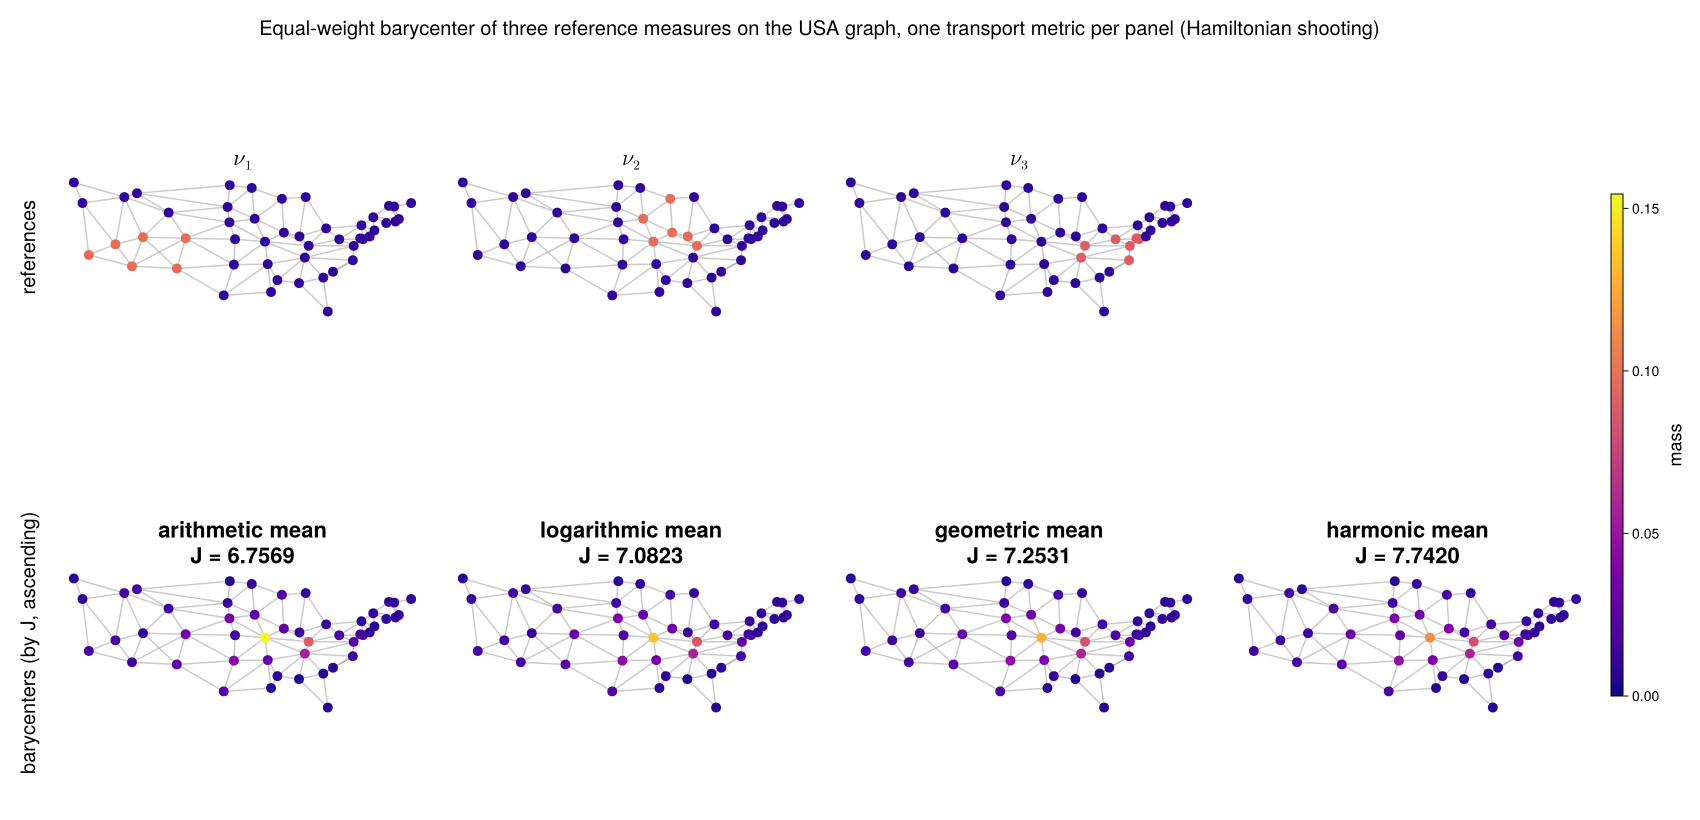
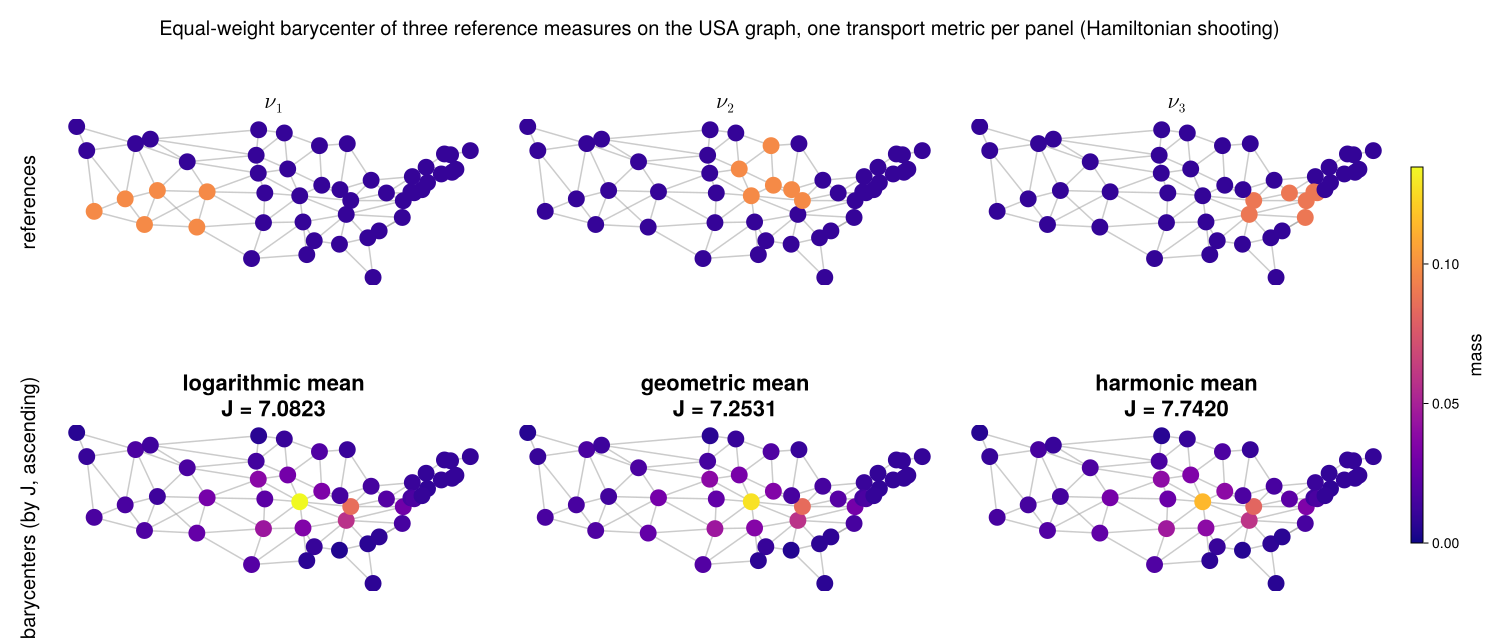
Means figure: 3x2 layout without the arithmetic mean, larger nodes; review wording
Review on #39: the 3-over-4 layout broke the aspect ratio and shrank the
nodes, so the arithmetic mean is dropped from the figure (one line in `means`
restores it); "dearest"/"honour" -> "most expensive"/"honor"; norm_pi renamed
norm_u since it is the L²(u) norm with u the stationary distribution.

Claude-Session: https://claude.ai/code/session_01YDahBrKv6s7mL4bSwJHnvf

diff --git a/docs/src/index.md b/docs/src/index.md
@@ -99,23 +99,23 @@ what keeps synthesis and analysis consistent.
 | `QuadLogMean(K)` | Gauss–Legendre approximation of the logarithmic mean | the SOCP's representation of it, `K` power cones per edge and time step; `K=8` is accurate to 1e-10 |
 
 For all `s, t > 0`: harmonic ≤ geometric ≤ logarithmic ≤ arithmetic, so transport is
-cheapest under the arithmetic mean and dearest under the harmonic one. `method=:socp`
-and `method=:shooting` honour every mean (the SOCP needs `QuadLogMean` for the
+cheapest under the arithmetic mean and most expensive under the harmonic one. `method=:socp`
+and `method=:shooting` honor every mean (the SOCP needs `QuadLogMean` for the
 logarithmic one); `method=:chambolle_pock` supports only the geometric mean and errors
 otherwise.
 
 The figure shows the equal-weight barycenter of the same three reference measures on
-the USA graph under each mean, computed by `barycenter(G, refs, λ; method=:shooting)`
-(`src/experiments/MeansComparison.jl`; 12 to 25 descent iterations and about a minute
-per mean). The panels are ordered by the variance `J = Σᵢ λᵢ W²(νᵢ, ν)`, which orders
-exactly as the means do. The barycenters differ modestly, by 0.05 to 0.28 in the
-π-weighted norm, with the arithmetic mean concentrating mass the most and the harmonic
-mean spreading it the most. The joint SOCP reproduces the first three at N=32 in a few
-seconds each, but its quadrature-log program stalls in Clarabel for N ≥ 8 on this
-graph (reported as an error rather than a stale iterate), which is what the shooting
-barycenter is for.
+the USA graph under the geometric, harmonic and logarithmic means, computed by
+`barycenter(G, refs, λ; method=:shooting)` (`src/experiments/MeansComparison.jl`; 12 to
+18 descent iterations and about a minute per mean). The panels are ordered by the
+variance `J = Σᵢ λᵢ W²(νᵢ, ν)`, which orders exactly as the means do. The barycenters
+differ modestly, by 0.05 to 0.14 in the π-weighted norm, with the logarithmic mean
+concentrating mass the most and the harmonic mean spreading it the most. The joint SOCP
+reproduces the geometric and harmonic barycenters at N=32 in a few seconds each, but its
+quadrature-log program stalls in Clarabel for N ≥ 8 on this graph (reported as an error
+rather than a stale iterate), which is what the shooting barycenter is for.
 
-![Barycenters under four admissible means](assets/means_comparison.png)
+![Barycenters under three admissible means](assets/means_comparison.png)
 
 ## API reference
 
